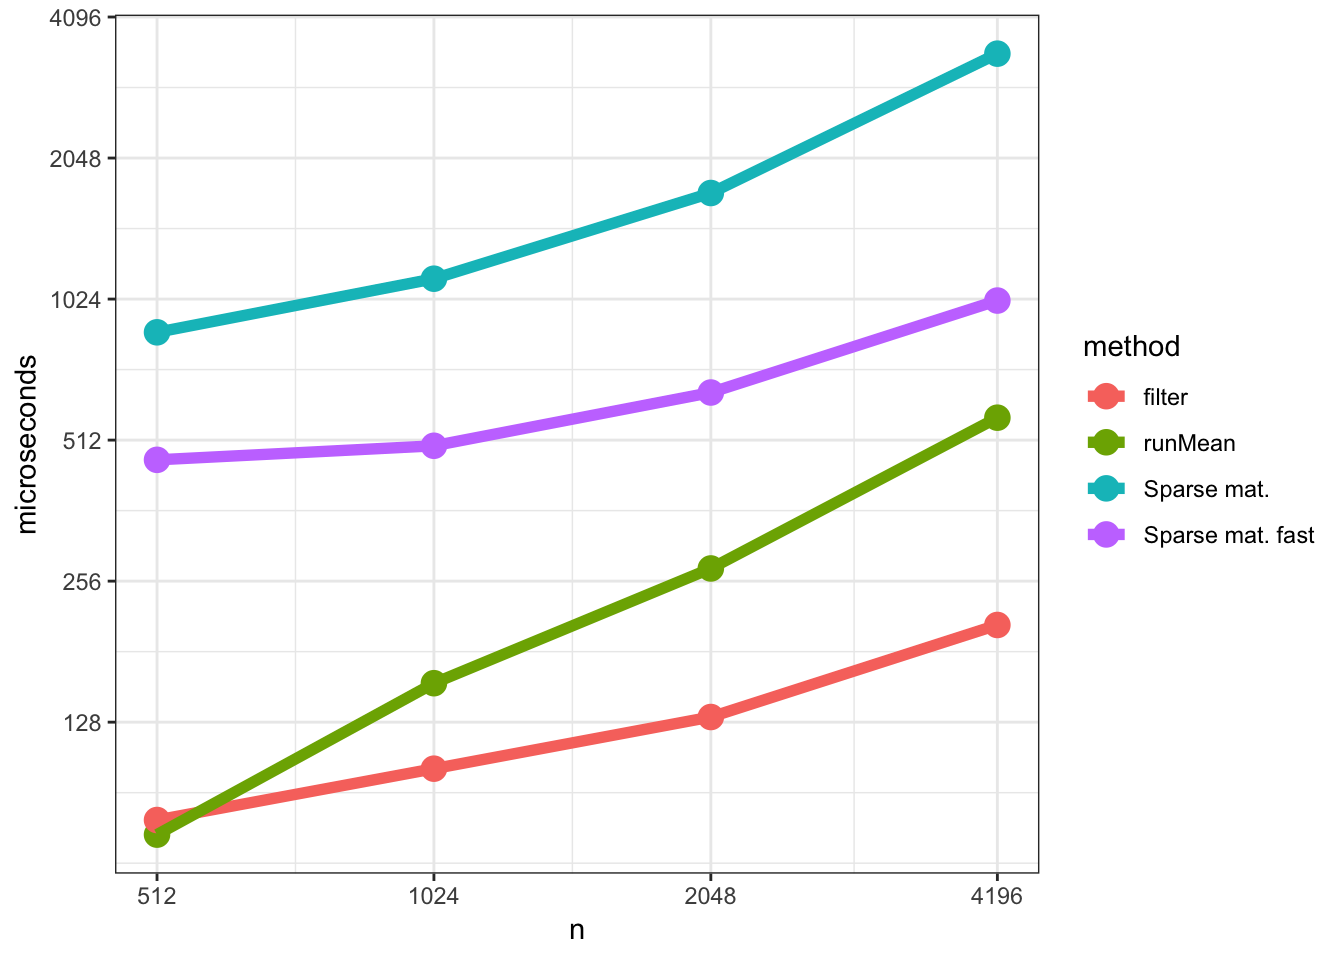
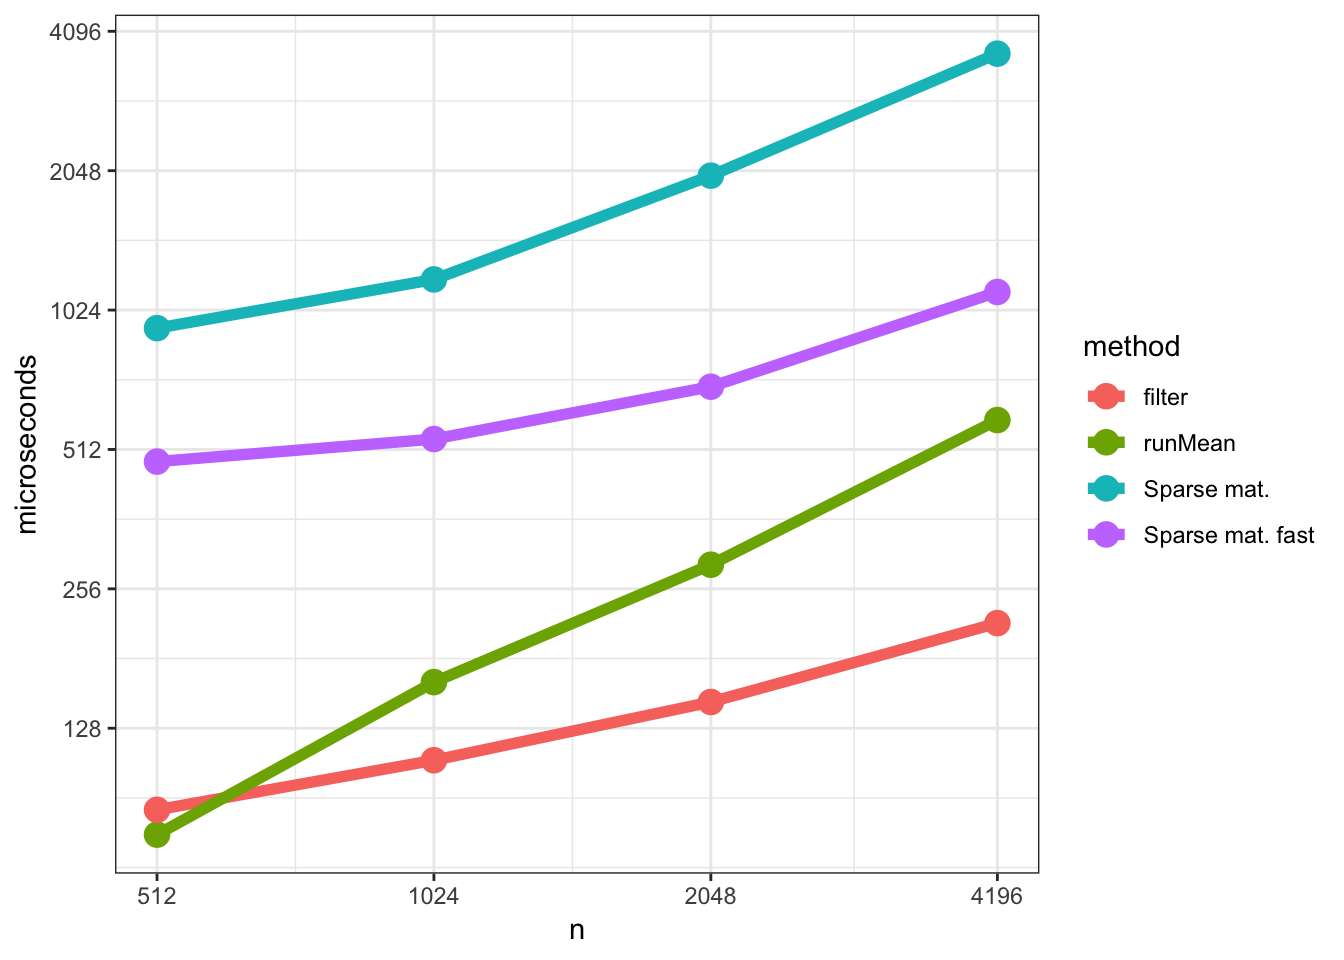
Updating online material

diff --git a/_book/bivariate.html b/_book/bivariate.html
@@ -254,7 +254,7 @@ code > span.in { color: #60a0b0; font-weight: bold; font-style: italic; } /* Inf
             <section class="normal" id="section-">
 <div id="bivariate" class="section level1">
 <h1><span class="header-section-number">Chapter 3</span> Bivariate smoothing</h1>
-<p>The focus of this chapter is on estimating how one variable, <span class="math inline">\(Y\)</span>, is smoothly related to another, <span class="math inline">\(X\)</span>. Thus we are directly aiming for an estimate of the (aspects of) the conditional distribution of <span class="math inline">\(Y\)</span> given <span class="math inline">\(X\)</span>. If both variables are real valued, we can get a pretty good idea of their relation by simply looking at a scatter plot, and what we are aiming for is also often referred to as <em>scatter plot smoothing</em>.</p>
+<p>The focus of this chapter is on estimating how one variable, <span class="math inline">\(Y\)</span>, is smoothly related to another, <span class="math inline">\(X\)</span>. Thus we are directly aiming for an estimate of (aspects of) the conditional distribution of <span class="math inline">\(Y\)</span> given <span class="math inline">\(X\)</span>. If both variables are real valued, we can get a pretty good idea of their relation by simply looking at a scatter plot, and what we are aiming for is also often referred to as <em>scatter plot smoothing</em>.</p>
 <p>One of the examples that will be used throughout is the monthly and yearly temperatures in Nuuk, Greenland, see <span class="citation">Vinther et al. (<a href="#ref-Vinther:2006">2006</a>)</span>. The updated data is available from the site <a href="https://crudata.uea.ac.uk/cru/data/greenland/">SW Greenland temperature data</a>.</p>
 
 <div class="sourceCode"><pre class="sourceCode r"><code class="sourceCode r">p_Nuuk &lt;-<span class="st"> </span><span class="kw">ggplot</span>(Nuuk_year, <span class="kw">aes</span>(<span class="dt">x =</span> Year, <span class="dt">y =</span> Temperature)) <span class="op">+</span><span class="st"> </span><span class="kw">geom_point</span>()

diff --git a/_book/nearest-neighbor-smoothers.html b/_book/nearest-neighbor-smoothers.html
@@ -348,51 +348,51 @@ Figure 3.3: Annual average temperature in Nuuk smoothed using the running mean w
 <tbody>
 <tr class="odd">
 <td align="left"><code>S1 %*% y[1:512]</code></td>
-<td align="right">329.7</td>
+<td align="right">318.1</td>
 </tr>
 <tr class="even">
 <td align="left"><code>S2 %*% y[1:1024]</code></td>
-<td align="right">1320.8</td>
+<td align="right">1277.1</td>
 </tr>
 <tr class="odd">
 <td align="left"><code>S3 %*% y[1:2048]</code></td>
-<td align="right">5379.2</td>
+<td align="right">5063.9</td>
 </tr>
 <tr class="even">
 <td align="left"><code>S4 %*% y[1:4196]</code></td>
-<td align="right">23055.1</td>
+<td align="right">21551.7</td>
 </tr>
 <tr class="odd">
 <td align="left"><code>runMean(y[1:512], k = 11)</code></td>
-<td align="right">86.5</td>
+<td align="right">75.7</td>
 </tr>
 <tr class="even">
 <td align="left"><code>runMean(y[1:1024], k = 11)</code></td>
-<td align="right">162.3</td>
+<td align="right">145.7</td>
 </tr>
 <tr class="odd">
 <td align="left"><code>runMean(y[1:2048], k = 11)</code></td>
-<td align="right">319.7</td>
+<td align="right">280.4</td>
 </tr>
 <tr class="even">
 <td align="left"><code>runMean(y[1:4196], k = 11)</code></td>
-<td align="right">637.5</td>
+<td align="right">584.7</td>
 </tr>
 <tr class="odd">
 <td align="left"><code>stats::filter(y[1:512], rep(1/11, 11))</code></td>
-<td align="right">90.3</td>
+<td align="right">68.0</td>
 </tr>
 <tr class="even">
 <td align="left"><code>stats::filter(y[1:1024], rep(1/11, 11))</code></td>
-<td align="right">126.5</td>
+<td align="right">86.2</td>
 </tr>
 <tr class="odd">
 <td align="left"><code>stats::filter(y[1:2048], rep(1/11, 11))</code></td>
-<td align="right">179.4</td>
+<td align="right">130.1</td>
 </tr>
 <tr class="even">
 <td align="left"><code>stats::filter(y[1:4196], rep(1/11, 11))</code></td>
-<td align="right">302.6</td>
+<td align="right">206.9</td>
 </tr>
 </tbody>
 </table>

diff --git a/_book/index.html b/_book/index.html
@@ -255,11 +255,7 @@ code > span.in { color: #60a0b0; font-weight: bold; font-style: italic; } /* Inf
 <div id="header">
 <h1 class="title">Computational Statistics with R</h1>
 <h4 class="author"><em>Niels Richard Hansen</em></h4>
-<<<<<<< HEAD
-<h4 class="date"><em>2018-08-30, Git version: 1aa2c50</em></h4>
-=======
-<h4 class="date"><em>2018-09-09, Git version: c09347f</em></h4>
->>>>>>> master
+<h4 class="date"><em>2018-09-09, Git version: 479ac9b</em></h4>
 </div>
 <div id="preface" class="section level1 unnumbered">
 <h1>Preface</h1>
